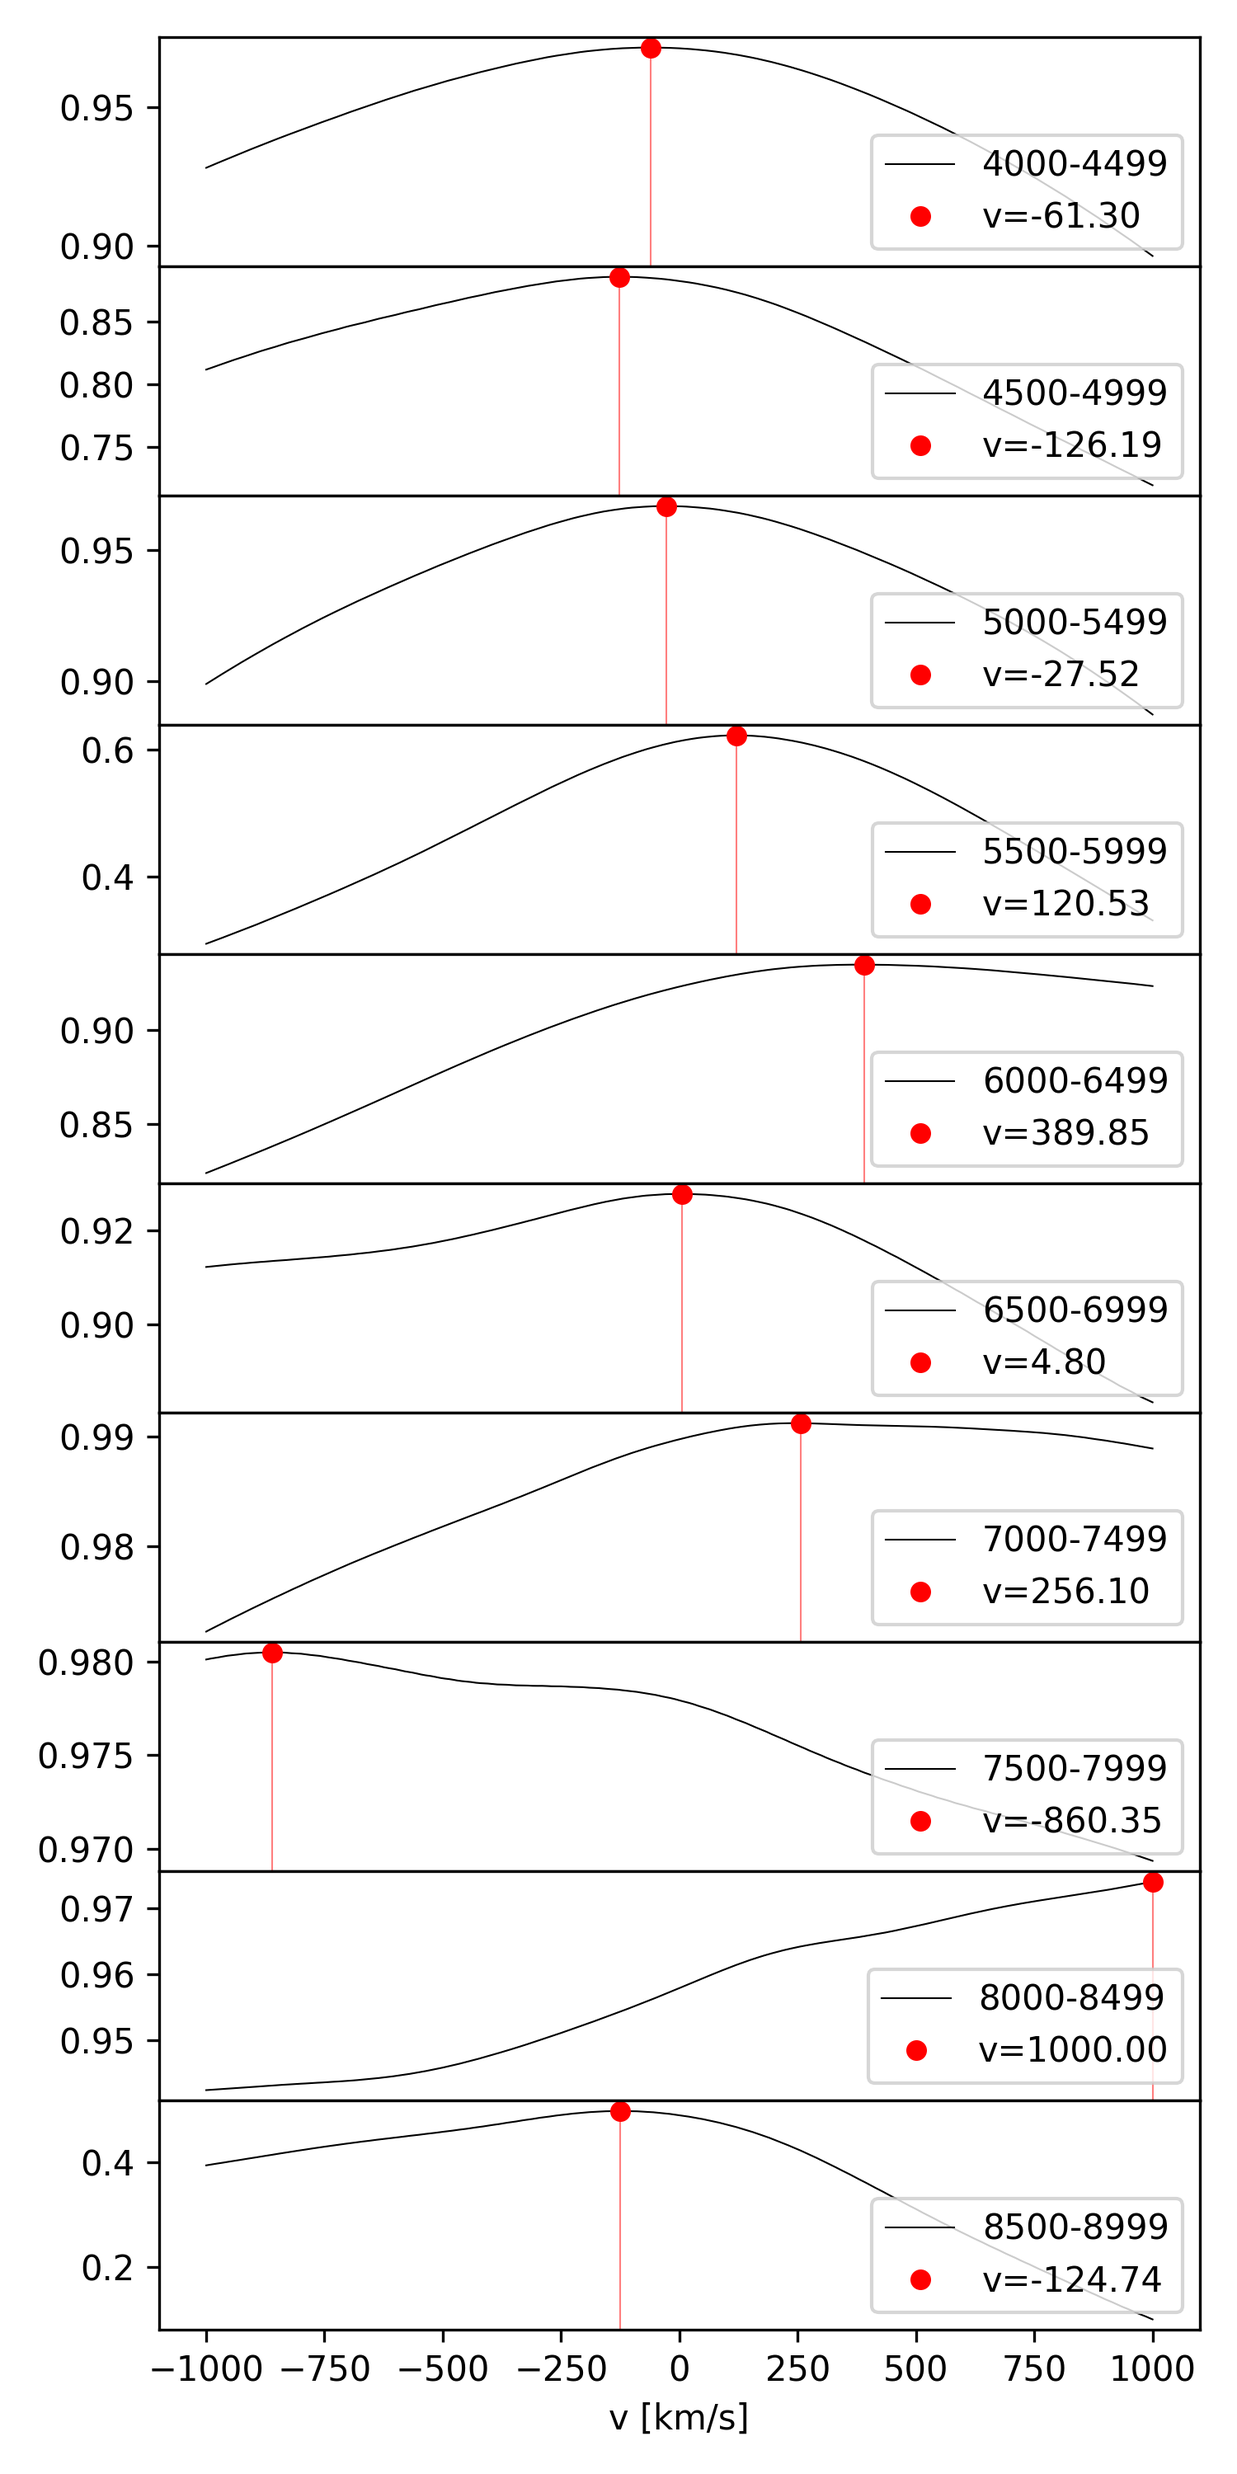
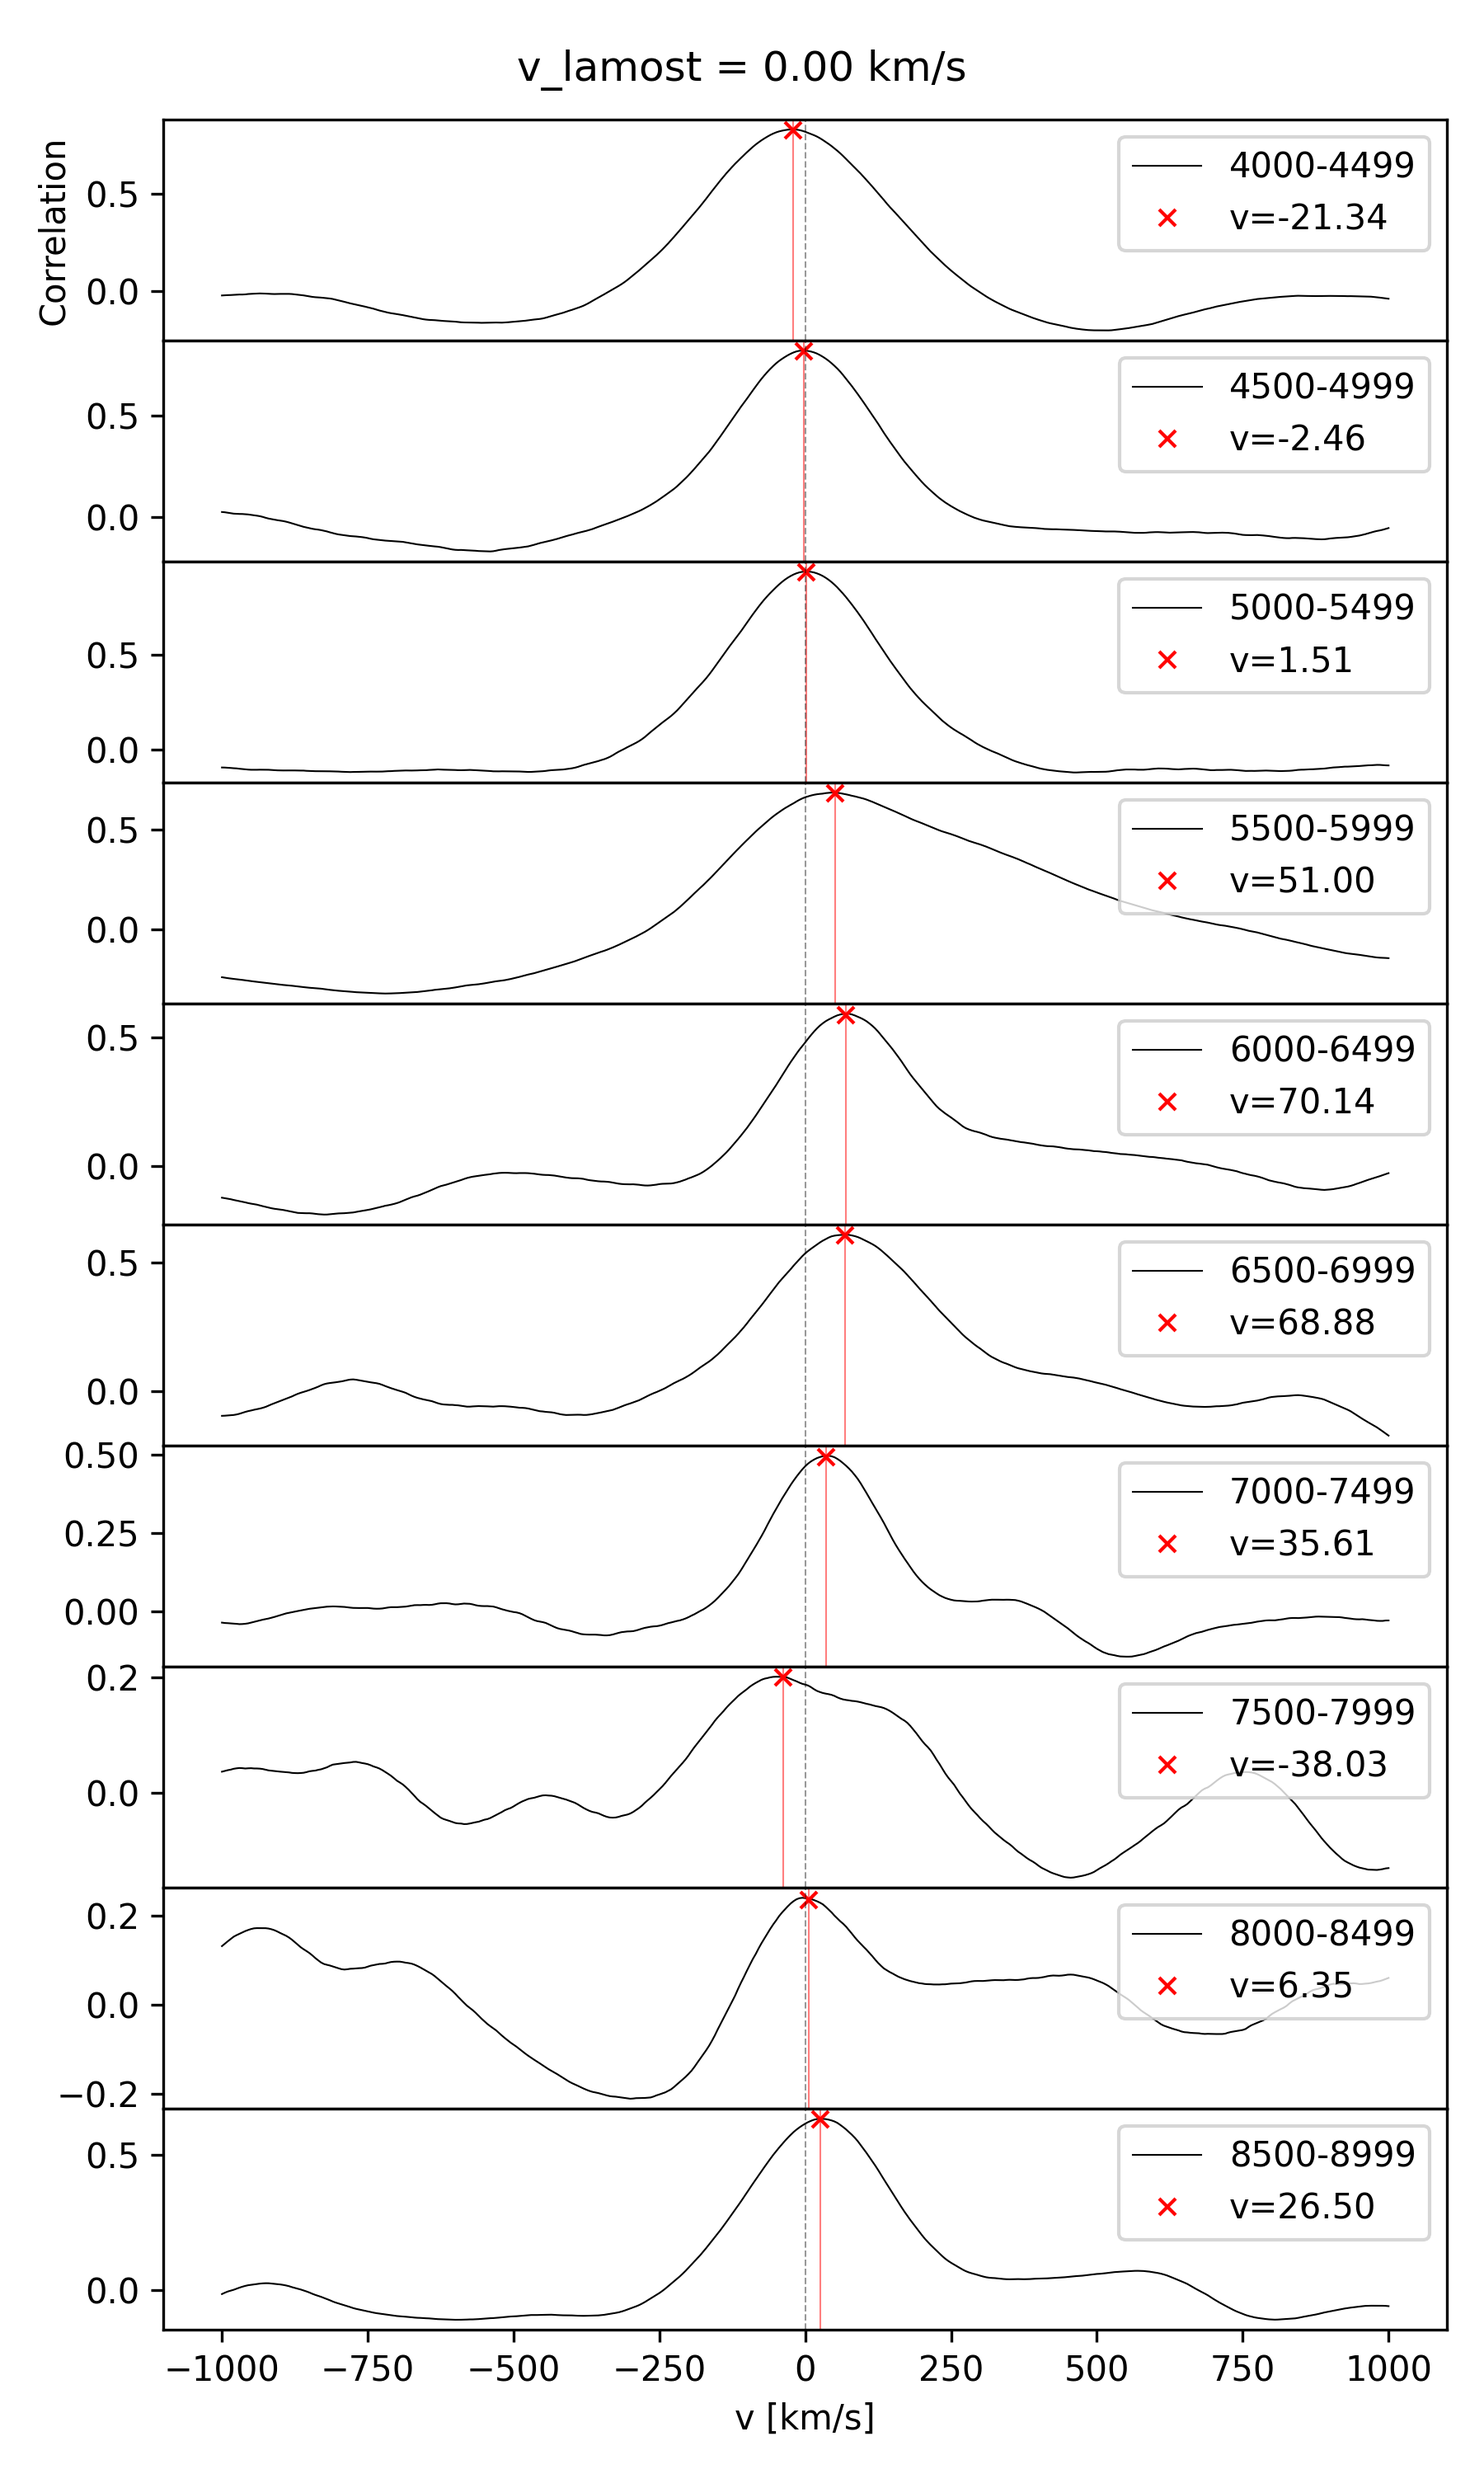
new normalization method; better visualization

diff --git a/main.py b/main.py
@@ -20,7 +20,6 @@ from toolkits import (
 import numpy as np
 from scipy.interpolate import interp1d
 from scipy.stats import pearsonr
-import matplotlib.pyplot as plt
 import yaml
 
 import os
@@ -148,19 +147,21 @@ if __name__ == '__main__':
     spec_dir = config['spectrum_dir']
     model_dir = config['model_dir']
     cat_path = config['catalog_path']
+    result_dir = config['result_dir']
     if not os.path.exists(model_dir):
         os.makedirs(model_dir)
     fig_save_dir = config['figure_dir']
     if not os.path.exists(fig_save_dir):
         os.makedirs(fig_save_dir)
-    result_path = config['result_path']
+    if not os.path.exists(result_dir):
+        os.makedirs(result_dir)
 
-    # clear_generated_figures(fig_save_dir)
-    # clear_generated_figures(spec_dir)
+    clear_generated_figures(fig_save_dir)
     
     ins = float(config['instrumental_broadening'])  # Instrumental broadening
     carbon = float(config['carbon'])  # Carbon
     mv_window = int(config['moving_average_window'])  # moving average window
+    norm_type = config['norm_type']   # normalization type
 
     cut_min, cut_max = float(config['cut_min']), float(config['cut_max'])
     wl_min, wl_max, wl_step = float(config['wl_min']), float(config['wl_max']), float(config['wl_step'])
@@ -188,6 +189,7 @@ if __name__ == '__main__':
     results_corr_mean = []
     results_corr_std = []
     results_corr_bests = []
+    results_v_lamost = []
     for idx, fpath in enumerate(fpaths):
         print(f'\nNow {idx+1}/{nfiles} ', fpath)
         wl, flux, obs_id = read_spectrum(fpath)
@@ -202,6 +204,7 @@ if __name__ == '__main__':
         logg = float(cataline['logg'][0])
         carbon = float(carbon)  # pre-defined in the config file
         ins = float(ins)  # pre-defined in the config file
+        rv = float(cataline['rv'][0])   # Heliocentric radial velocity obtained by the LASP
         try:
             ins, metal, carbon, alpha, teff, logg = spectrum_args_gridder(
                 ins, metal, carbon, alpha, teff, logg
@@ -229,24 +232,30 @@ if __name__ == '__main__':
         # --------------------------------------------------
         # target spectrum
         flux_ma = moving_average(flux, n=mv_window)
-        wl_n, flux_n = normalization(wl, flux_ma)
+        wl_n, flux_n = normalization(wl, flux_ma, norm_type=norm_type, flux_raw=flux)
         # model spectrum
         fluxm_ma = moving_average(fluxm, n=mv_window)
-        wlm_n, fluxm_n = normalization(wlm, fluxm_ma)
+        wlm_n, fluxm_n = normalization(wlm, fluxm_ma, norm_type=norm_type, flux_raw=fluxm)
         # shift the model spectrum on the wavelength by velocity
         v_shifts = np.arange(v_shift_min, v_shift_max + v_shift_step, v_shift_step)
         wlm_ns = [shift_with_velocity(wlm_n, v) for v in v_shifts]
         fluxm_ns = [fluxm_n] * len(v_shifts)
+        wlm_cs = [shift_with_velocity(wlm, v) for v in v_shifts]    # `c` for `cut` in the next step
+        fluxm_cs = [fluxm] * len(v_shifts)
         # --------------------------------------------------
         # Interpolate the spectrum
         # --------------------------------------------------
         # cut the spectrums
         wl_n, flux_n = wave_cut(wl_n, flux_n, cut_min, cut_max)
+        wl_c, flux_c = wave_cut(wl, flux, cut_min, cut_max)
         for i, v in enumerate(v_shifts):
             wlm_ns[i], fluxm_ns[i] = wave_cut(wlm_ns[i], fluxm_ns[i], cut_min, cut_max)
+            wlm_cs[i], fluxm_cs[i] = wave_cut(wlm_cs[i], fluxm_cs[i], cut_min, cut_max)
         # interpolate the spectrums
-        f_target = interp1d(wl_n, flux_n)
-        f_models = [interp1d(wlm_ns[i], fluxm_ns[i]) for i in range(len(v_shifts))]
+        fn_target = interp1d(wl_n, flux_n)
+        fn_models = [interp1d(wlm_ns[i], fluxm_ns[i]) for i in range(len(v_shifts))]
+        fc_target = interp1d(wl_c, flux_c)
+        fc_models = [interp1d(wlm_cs[i], fluxm_cs[i]) for i in range(len(v_shifts))]
         # set resample wavelengths
         wlrs = []
         for wlr_tag in np.arange(wl_min, wl_max, wl_seg):
@@ -260,10 +269,12 @@ if __name__ == '__main__':
         corr_peaks = []
         wl_seg_bests = []
         flux_seg_bests = []
+        wl_seg_bests_raw = []
+        flux_seg_bests_raw = []
         for i, wlr_seg in enumerate(wlrs):
             corrs_seg = []
             for j, v in enumerate(v_shifts):
-                corr = pearsonr(f_target(wlr_seg), f_models[j](wlr_seg))[0]
+                corr = pearsonr(fn_target(wlr_seg), fn_models[j](wlr_seg))[0]
                 corrs_seg.append(corr)
             corrs_seg = np.array(corrs_seg)
             corrs.append(corrs_seg)
@@ -294,9 +305,13 @@ if __name__ == '__main__':
             corr_peaks.append(corr_peak)
             # shift target spectrum
             wl_seg_best = shift_with_velocity(wlr_seg, -v_peak)
-            flux_seg_best = f_target(wlr_seg)
+            flux_seg_best = fn_target(wlr_seg)
             wl_seg_bests.append(wl_seg_best)
             flux_seg_bests.append(flux_seg_best)
+            wl_seg_best_raw = shift_with_velocity(wlr_seg, -v_peak)
+            flux_seg_best_raw = fc_target(wlr_seg)
+            wl_seg_bests_raw.append(wl_seg_best_raw)
+            flux_seg_bests_raw.append(flux_seg_best_raw)
         corrs = np.array(corrs)
         v_peaks = np.array(v_peaks)
         v_peaks_mean = np.mean(v_peaks)
@@ -325,15 +340,30 @@ if __name__ == '__main__':
         corr_labels = []
         for wlr in wlrs:
             corr_labels.append(f'{wlr[0]:.0f}-{wlr[-1]:.0f}')
-        plot_corrs(v_shifts, corrs, v_peaks, corr_peaks, corr_labels, corr_path)
+        plot_corrs(v_shifts, corrs, v_peaks, corr_peaks, rv, corr_labels, corr_path)
+
+        # plot shifted normed spectrums
+        spec_shift_normed_title = f'{obs_id:d} spectrum normed shifted'
+        spec_shift_normed_path = os.path.join(fig_save_dir, f'{obs_id:d}_spectrum_normed_shift.png')
+        spec_shift_labels = []
+        for v_peak in v_peaks:
+            spec_shift_labels.append(f'{v_peak:.2f}')
+        plot_shifted_spectrum_segs(
+            wl_seg_bests, flux_seg_bests, 
+            wlm_n, fluxm_n, 
+            spec_shift_labels, [cut_min, cut_max], 
+            spec_shift_normed_title, spec_shift_normed_path
+        )
 
         # plot shifted spectrums
         spec_shift_title = f'{obs_id:d} spectrum shifted'
         spec_shift_path = os.path.join(fig_save_dir, f'{obs_id:d}_spectrum_shift.png')
-        spec_shift_labels = []
-        for v_peak in v_peaks:
-            spec_shift_labels.append(f'{v_peak:.2f}')
-        plot_shifted_spectrum_segs(wl_seg_bests, flux_seg_bests, wlm_n, fluxm_n, spec_shift_labels, [cut_min, cut_max], spec_shift_title, spec_shift_path)
+        plot_shifted_spectrum_segs(
+            wl_seg_bests_raw, flux_seg_bests_raw, 
+            wlm, fluxm, 
+            spec_shift_labels, [cut_min, cut_max],
+            spec_shift_title, spec_shift_path
+        )
 
         # save the result
         results_id.append(obs_id)
@@ -343,9 +373,35 @@ if __name__ == '__main__':
         results_corr_std.append(corr_peaks_std)
         results_v_bests.append(v_peaks)
         results_corr_bests.append(corr_peaks)
+        results_v_lamost.append(rv)
 
-    with open(result_path, 'w') as f:
-        f.write('obsid,v_shift_mean,v_shift_std,corr_mean,corr_std\n')
+    result_path = os.path.join(fig_save_dir, 'results.txt')
+    with open(result_path, 'w', encoding='utf-8') as f:
+        f.write('obsid,v_shift_mean,v_shift_std,corr_mean,corr_std,v_lamost,\n')
         for i in range(len(results_id)):
-            f.write(f'{results_id[i]:d},{results_v_mean[i]:.3f},{results_v_std[i]:.3f},{results_corr_mean[i]:.3f},{results_corr_std[i]:.3f},')
+            f.write(f'{results_id[i]:d},{results_v_mean[i]:.3f},{results_v_std[i]:.3f},{results_corr_mean[i]:.3f},{results_corr_std[i]:.3f},{results_v_lamost[i]:.3f},')
+            f.write('\n')
+
+    result_v_path = os.path.join(fig_save_dir, 'results_v.txt')
+    with open(result_v_path, 'w', encoding='utf-8') as f:
+        f.write('obsid,')
+        for i in range(len(results_v_bests[0])):
+            f.write(f'v_{i:d},')
+        f.write('\n')
+        for i in range(len(results_id)):
+            f.write(f'{results_id[i]:d},')
+            for v in results_v_bests[i]:
+                f.write(f'{v:.3f},')
+            f.write('\n')
+
+    result_corr_path = os.path.join(fig_save_dir, 'results_corr.txt')
+    with open(result_corr_path, 'w', encoding='utf-8') as f:
+        f.write('obsid,')
+        for i in range(len(results_corr_bests[0])):
+            f.write(f'corr_{i:d},')
+        f.write('\n')
+        for i in range(len(results_id)):
+            f.write(f'{results_id[i]:d},')
+            for corr in results_corr_bests[i]:
+                f.write(f'{corr:.3f},')
             f.write('\n')

diff --git a/plotter.py b/plotter.py
@@ -19,34 +19,39 @@ def plot_spectrum(wl, flux, xlim=None, title=None, save_to=None):
 
 
 def plot_shifted_spectrum_segs(wl_segs, flux_segs, wlm, fluxm, v_labels=None, xlim=None, title=None, save_to=None):
-    fig, ax = plt.subplots(figsize=(10, 5))
-    ax.plot(wlm, fluxm, '-', color='grey', alpha=0.5, label='Model')
+    fig, ax_model = plt.subplots(figsize=(10, 5))
+    ax_model.plot(wlm, fluxm, '-', color='grey', alpha=0.5, label='Model', linewidth=0.9)
+    if xlim is not None:
+        ax_model.set_xlim(xlim)
+    ymax_model = ax_model.get_ylim()[1]
+    ax_model.set_ylim([0, ymax_model])
+    ax_model.set_xlabel('Wavelength [$\AA$]')
+    ax_model.set_ylabel('Model Flux')
+    ax_model.legend(loc='upper left')
+
+    ax_spec = ax_model.twinx()
     ctr = 0
     for wl, flux in zip(wl_segs, flux_segs):
         ctr += 1
         if ctr == 1:
-            lineart = ax.plot(wl, flux, alpha=0.8, label='Target')
+            lineart = ax_spec.plot(wl, flux, alpha=0.8, label='Target', linewidth=0.9)
         else:
-            lineart = ax.plot(wl, flux, alpha=0.8)
+            lineart = ax_spec.plot(wl, flux, alpha=0.8, linewidth=0.8)
         # get the color of the line
         color = lineart[0].get_color()
         # plot shadow rectangle
-        ax.fill_between(wl, flux, color=color, alpha=0.1)
-    ax.set_xlabel('Wavelength [$\AA$]')
-    ax.set_ylabel('Flux')
+        ax_spec.fill_between(wl, flux, color=color, alpha=0.1)
+    ax_spec.set_ylabel('Target Flux')
+    ymax_spec = ax_spec.get_ylim()[1]
+    # set ymin to 0
+    ax_spec.set_ylim([0, ymax_spec])
     if v_labels is not None:
         for i, v in enumerate(v_labels):
             xpos = (wl_segs[i][0] + wl_segs[i][-1]) / 2
-            ax.text(xpos, 0.1, v, ha='center', va='top')
-    if xlim is not None:
-        ax.set_xlim(xlim)
-    # get ymax of the axes
-    ymax = ax.get_ylim()[1]
-    # set ymin to 0
-    ax.set_ylim([0, ymax])
+            ax_spec.text(xpos, ymax_spec*0.01, v, ha='center', va='bottom', color='black', alpha=0.6)
     if title is not None:
-        ax.set_title(title)
-    ax.legend(loc='upper right')
+        ax_spec.set_title(title)
+    ax_spec.legend(loc='upper right')
     plt.tight_layout()
     if save_to is not None:
         fig.savefig(save_to, dpi=300)
@@ -55,13 +60,15 @@ def plot_shifted_spectrum_segs(wl_segs, flux_segs, wlm, fluxm, v_labels=None, xl
     plt.close(fig)
 
 
-def plot_corrs(v_shifts, corrs, v_shift_bests, corr_bests, labels, save_to=None):
+def plot_corrs(v_shifts, corrs, v_shift_bests, corr_bests, v_lamost, labels, save_to=None):
     nrows = len(corrs)
+    vmax = max(v_shifts)
+    vmin = min(v_shifts)
     if nrows != len(v_shift_bests):
         raise ValueError('Number of v_shift_bests must match number of corrs')
     if nrows != len(labels):
         raise ValueError('Number of labels must match number of corrs')
-    fig = plt.figure(figsize=(5, 10))
+    fig = plt.figure(figsize=(6, 10))
     gs = fig.add_gridspec(nrows, hspace=0)
     axs = gs.subplots(sharex=True)
     for i, ax in enumerate(axs):
@@ -70,13 +77,20 @@ def plot_corrs(v_shifts, corrs, v_shift_bests, corr_bests, labels, save_to=None)
         v_shift_best = v_shift_bests[i]
         corr_best = corr_bests[i]
         ax.plot(v_shifts, corr_seg, 'k-', linewidth=0.5, label=label_seg)
-        ax.plot(v_shift_best, corr_best, 'ro', markersize=5, label=f'v={v_shift_best:.2f}')
+        ax.plot(v_shift_best, corr_best, 'rx', markersize=5, label=f'v={v_shift_best:.2f}')
         # plot vectral line
-        ax.axvline(x=v_shift_best, color='r', linestyle='-', linewidth=0.5, alpha=0.5)
-        ax.legend(loc='lower right')
+        ax.axvline(x=v_shift_best, color='r', linestyle='-', linewidth=0.5, alpha=0.8)
+        ax.axvline(x=v_lamost, color='k', linestyle='--', linewidth=0.5, alpha=0.6)
+        if i == 0:
+            ax.set_ylabel('Correlation')
+        if v_lamost < vmin + (vmax - vmin) * 0.618:
+            ax.legend(loc='upper right')
+        else:
+            ax.legend(loc='upper left')
         if i == nrows - 1:
             ax.set_xlabel('v [km/s]')
         ax.label_outer()
+    fig.suptitle(f'v_lamost = {v_lamost:.2f} km/s')
     plt.tight_layout()
     if save_to is not None:
         fig.savefig(save_to, dpi=300)

diff --git a/toolkits.py b/toolkits.py
@@ -115,16 +115,23 @@ def moving_average(x, n=3):
     return np.convolve(x, np.ones(n), 'same') / n
 
 
-def normalization(wl, flux):
+def normalization(wl, flux, norm_type='mean', flux_raw=None):
     """
     Normalize the spectrum.
     """
-    max_val = np.max(flux)
-    return wl, flux / max_val
-    # mean = np.mean(flux)
-    # std = np.std(flux)
-    # flux = (flux - mean) / std
-    # return wl, flux
+    if norm_type in ['max']:
+        max_val = np.max(flux)
+        return wl, flux / max_val
+    if norm_type in ['mean']:
+        mean = np.mean(flux)
+        std = np.std(flux)
+        flux = (flux - mean) / std
+        return wl, flux
+    if norm_type in ['divide']:
+        if flux_raw is None:
+            raise ValueError('flux_raw is required for normalization type "devide"')
+        return wl, flux_raw / flux
+    raise ValueError(f'Unknown normalization type: {norm_type}')
 
 
 def shift_with_velocity(wl, v):
